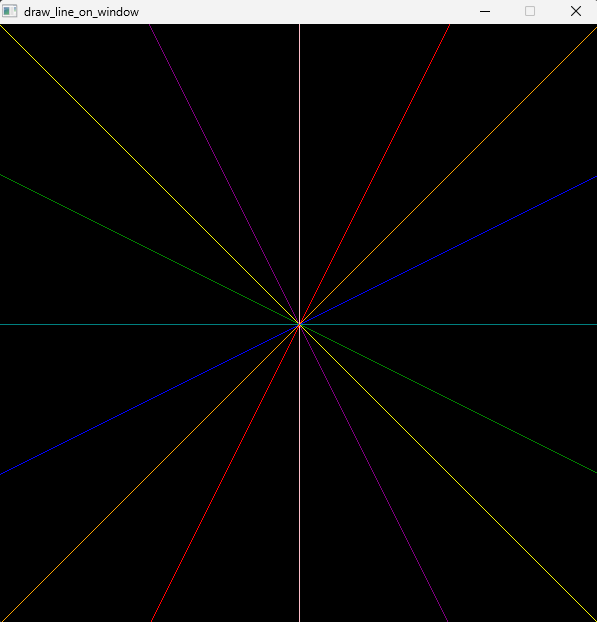
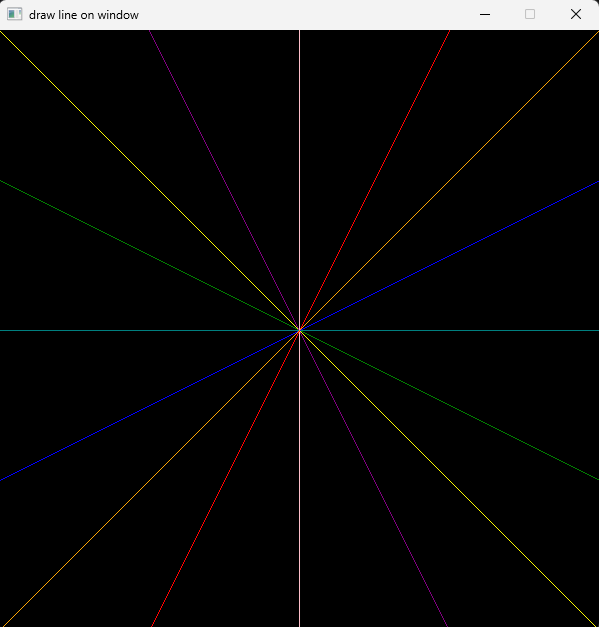
Renamed window to avoid function name highlighting

diff --git a/public/usage-examples/graphics/draw_line_on_window/draw_line_on_window-1-simple-oop.cs b/public/usage-examples/graphics/draw_line_on_window/draw_line_on_window-1-simple-oop.cs
@@ -7,7 +7,7 @@ namespace draw_line_on_window
         public static void Main()
         {
             // Create Window
-            Window start = new Window("draw_line_on_window", 600, 600);
+            Window start = new Window("draw line on window", 600, 600);
             SplashKit.ClearScreen(SplashKit.ColorBlack());
 
 

diff --git a/public/usage-examples/graphics/draw_line_on_window/draw_line_on_window-1-simple-top-level.cs b/public/usage-examples/graphics/draw_line_on_window/draw_line_on_window-1-simple-top-level.cs
@@ -3,7 +3,7 @@ using static SplashKitSDK.SplashKit;
 
 
 // Create Window
-Window start = OpenWindow("draw_line_on_window", 600, 600);
+Window start = OpenWindow("draw line on window", 600, 600);
 ClearScreen(ColorBlack());
 
 

diff --git a/public/usage-examples/graphics/draw_line_on_window/draw_line_on_window-1-simple.cpp b/public/usage-examples/graphics/draw_line_on_window/draw_line_on_window-1-simple.cpp
@@ -3,7 +3,7 @@
 int main()
 {
     // Create Window
-    window start = open_window("draw_line_on_window", 600, 600);
+    window start = open_window("draw line on window", 600, 600);
     clear_screen(COLOR_BLACK);
 
 

diff --git a/public/usage-examples/graphics/draw_line_on_window/draw_line_on_window-1-simple.py b/public/usage-examples/graphics/draw_line_on_window/draw_line_on_window-1-simple.py
@@ -1,7 +1,7 @@
 from splashkit import *
 
 #Create Window
-start = open_window("draw_line_on_window", 600, 600)
+start = open_window("draw line on window", 600, 600)
 clear_screen(color_black())
 
 
